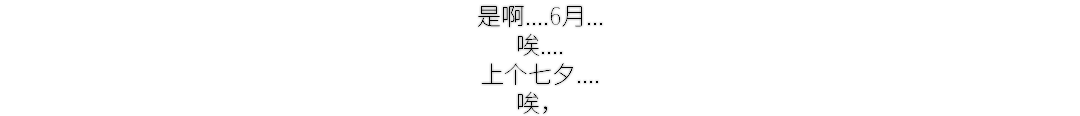
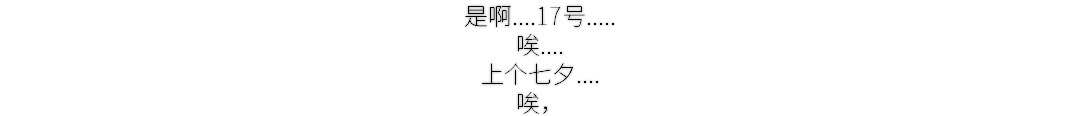
bugfix

Changed region(s): [[0.4278, 0.0259, 0.55, 0.2328]]

diff --git a/css/site_global.css b/css/site_global.css
@@ -1,1 +1,1 @@
-html{min-height:100%;min-width:100%;-ms-text-size-adjust:none;}body,div,dl,dt,dd,ul,ol,li,nav,h1,h2,h3,h4,h5,h6,pre,code,form,fieldset,legend,input,button,textarea,p,blockquote,th,td,a{margin:0px;padding:0px;border-width:0px;border-style:solid;border-color:transparent;-webkit-transform-origin:left top;-ms-transform-origin:left top;-o-transform-origin:left top;transform-origin:left top;background-repeat:no-repeat;}button.submit-btn{-moz-box-sizing:content-box;-webkit-box-sizing:content-box;box-sizing:content-box;}.transition{-webkit-transition-property:background-image,background-position,background-color,border-color,border-radius,color,font-size,font-style,font-weight,letter-spacing,line-height,text-align,box-shadow,text-shadow,opacity;transition-property:background-image,background-position,background-color,border-color,border-radius,color,font-size,font-style,font-weight,letter-spacing,line-height,text-align,box-shadow,text-shadow,opacity;}.transition *{-webkit-transition:inherit;transition:inherit;}table{border-collapse:collapse;border-spacing:0px;}fieldset,img{border:0px;border-style:solid;-webkit-transform-origin:left top;-ms-transform-origin:left top;-o-transform-origin:left top;transform-origin:left top;}address,caption,cite,code,dfn,em,strong,th,var,optgroup{font-style:inherit;font-weight:inherit;}del,ins{text-decoration:none;}li{list-style:none;}caption,th{text-align:left;}h1,h2,h3,h4,h5,h6{font-size:100%;font-weight:inherit;}input,button,textarea,select,optgroup,option{font-family:inherit;font-size:inherit;font-style:inherit;font-weight:inherit;}.form-grp input,.form-grp textarea{-webkit-appearance:none;-webkit-border-radius:0;}body{font-family:Arial, Helvetica Neue, Helvetica, sans-serif;text-align:left;font-size:14px;line-height:17px;word-wrap:break-word;text-rendering:optimizeLegibility;-moz-font-feature-settings:'liga';-ms-font-feature-settings:'liga';-webkit-font-feature-settings:'liga';font-feature-settings:'liga';}a:link{color:#FFFFFF;text-decoration:inherit;}a:visited{color:#FFFFFF;text-decoration:inherit;}a:hover{color:#FFFFFF;text-decoration:inherit;}a:active{color:#FFFFFF;text-decoration:inherit;}a.nontext{color:black;text-decoration:none;font-style:normal;font-weight:normal;}.normal_text{color:#000000;direction:ltr;font-family:Arial, Helvetica Neue, Helvetica, sans-serif;font-size:14px;font-style:normal;font-weight:normal;letter-spacing:0px;line-height:17px;text-align:left;text-decoration:none;text-indent:0px;text-transform:none;vertical-align:0px;padding:0px;}.list0 li:before{position:absolute;right:100%;letter-spacing:0px;text-decoration:none;font-weight:normal;font-style:normal;}.rtl-list li:before{right:auto;left:100%;}.nls-None > li:before,.nls-None .list3 > li:before,.nls-None .list6 > li:before{margin-right:6px;content:'•';}.nls-None .list1 > li:before,.nls-None .list4 > li:before,.nls-None .list7 > li:before{margin-right:6px;content:'○';}.nls-None,.nls-None .list1,.nls-None .list2,.nls-None .list3,.nls-None .list4,.nls-None .list5,.nls-None .list6,.nls-None .list7,.nls-None .list8{padding-left:34px;}.nls-None.rtl-list,.nls-None .list1.rtl-list,.nls-None .list2.rtl-list,.nls-None .list3.rtl-list,.nls-None .list4.rtl-list,.nls-None .list5.rtl-list,.nls-None .list6.rtl-list,.nls-None .list7.rtl-list,.nls-None .list8.rtl-list{padding-left:0px;padding-right:34px;}.nls-None .list2 > li:before,.nls-None .list5 > li:before,.nls-None .list8 > li:before{margin-right:6px;content:'-';}.nls-None.rtl-list > li:before,.nls-None .list1.rtl-list > li:before,.nls-None .list2.rtl-list > li:before,.nls-None .list3.rtl-list > li:before,.nls-None .list4.rtl-list > li:before,.nls-None .list5.rtl-list > li:before,.nls-None .list6.rtl-list > li:before,.nls-None .list7.rtl-list > li:before,.nls-None .list8.rtl-list > li:before{margin-right:0px;margin-left:6px;}.TabbedPanelsTab{white-space:nowrap;}.MenuBar .MenuBarView,.MenuBar .SubMenuView{display:block;list-style:none;}.MenuBar .SubMenu{display:none;position:absolute;}.NoWrap{white-space:nowrap;word-wrap:normal;}.rootelem{margin-left:auto;margin-right:auto;}.colelem{display:inline;float:left;clear:both;}.clearfix:after{content:"\0020";visibility:hidden;display:block;height:0px;clear:both;}*:first-child+html .clearfix{zoom:1;}.clip_frame{overflow:hidden;}.popup_anchor{position:relative;width:0px;height:0px;}.allow_click_through *{pointer-events:auto;}.popup_element{z-index:100000;}.svg{display:block;vertical-align:top;}span.wrap{content:'';clear:left;display:block;}span.actAsInlineDiv{display:inline-block;}.position_content,.excludeFromNormalFlow{float:left;}.preload_images{position:absolute;overflow:hidden;left:-9999px;top:-9999px;height:1px;width:1px;}.preload{height:1px;width:1px;}.animateStates{-webkit-transition:0.3s ease-in-out;-moz-transition:0.3s ease-in-out;-o-transition:0.3s ease-in-out;transition:0.3s ease-in-out;}[data-whatinput="mouse"] *:focus,[data-whatinput="touch"] *:focus,input:focus,textarea:focus{outline:none;}textarea{resize:none;overflow:auto;}.allow_click_through,.fld-prompt{pointer-events:none;}.wrapped-input{position:absolute;top:0px;left:0px;background:transparent;border:none;}.submit-btn{z-index:50000;cursor:pointer;}.anchor_item{width:22px;height:18px;}.MenuBar .SubMenuVisible,.MenuBarVertical .SubMenuVisible,.MenuBar .SubMenu .SubMenuVisible,.popup_element.Active,span.actAsPara,.actAsDiv,a.nonblock.nontext,img.block{display:block;}.widget_invisible,.js .invi,.js .mse_pre_init{visibility:hidden;}.ose_ei{visibility:hidden;z-index:0;}.no_vert_scroll{overflow-y:hidden;}.always_vert_scroll{overflow-y:scroll;}.always_horz_scroll{overflow-x:scroll;}.fullscreen{overflow:hidden;left:0px;top:0px;position:fixed;height:100%;width:100%;-moz-box-sizing:border-box;-webkit-box-sizing:border-box;-ms-box-sizing:border-box;box-sizing:border-box;}.fullwidth{position:absolute;}.borderbox{-moz-box-sizing:border-box;-webkit-box-sizing:border-box;-ms-box-sizing:border-box;box-sizing:border-box;}.scroll_wrapper{position:absolute;overflow:auto;left:0px;right:0px;top:0px;bottom:0px;padding-top:0px;padding-bottom:0px;margin-top:0px;margin-bottom:0px;}.browser_width > *{position:absolute;left:0px;right:0px;}.grpelem,.accordion_wrapper{display:inline;float:left;}.fld-checkbox input[type=checkbox],.fld-radiobutton input[type=radio]{position:absolute;overflow:hidden;clip:rect(0px, 0px, 0px, 0px);height:1px;width:1px;margin:-1px;padding:0px;border:0px;}.fld-checkbox input[type=checkbox] + label,.fld-radiobutton input[type=radio] + label{display:inline-block;background-repeat:no-repeat;cursor:pointer;float:left;width:100%;height:100%;}.pointer_cursor,.fld-recaptcha-mode,.fld-recaptcha-refresh,.fld-recaptcha-help{cursor:pointer;}p,h1,h2,h3,h4,h5,h6,ol,ul,span.actAsPara{max-height:1000000px;}.superscript{vertical-align:super;font-size:66%;line-height:0px;}.subscript{vertical-align:sub;font-size:66%;line-height:0px;}.horizontalSlideShow{-ms-touch-action:pan-y;touch-action:pan-y;}.verticalSlideShow{-ms-touch-action:pan-x;touch-action:pan-x;}.colelem100,.verticalspacer{clear:both;}.list0 li,.MenuBar .MenuItemContainer,.SlideShowContentPanel .fullscreen img,.css_verticalspacer .verticalspacer{position:relative;}.popup_element.Inactive,.js .disn,.js .an_invi,.hidden,.breakpoint{display:none;}#muse_css_mq{position:absolute;display:none;background-color:#FFFFFE;}.fluid_height_spacer{width:0.01px;}.muse_check_css{display:none;position:fixed;}@media screen and (-webkit-min-device-pixel-ratio:0){body{text-rendering:auto;}}
+html{min-height:100%;min-width:100%;-ms-text-size-adjust:none;}body,div,dl,dt,dd,ul,ol,li,nav,h1,h2,h3,h4,h5,h6,pre,code,form,fieldset,legend,input,button,textarea,p,blockquote,th,td,a{margin:0px;padding:0px;border-width:0px;border-style:solid;border-color:transparent;-webkit-transform-origin:left top;-ms-transform-origin:left top;-o-transform-origin:left top;transform-origin:left top;background-repeat:no-repeat;}button.submit-btn{-moz-box-sizing:content-box;-webkit-box-sizing:content-box;box-sizing:content-box;}.transition{-webkit-transition-property:background-image,background-position,background-color,border-color,border-radius,color,font-size,font-style,font-weight,letter-spacing,line-height,text-align,box-shadow,text-shadow,opacity;transition-property:background-image,background-position,background-color,border-color,border-radius,color,font-size,font-style,font-weight,letter-spacing,line-height,text-align,box-shadow,text-shadow,opacity;}.transition *{-webkit-transition:inherit;transition:inherit;}table{border-collapse:collapse;border-spacing:0px;}fieldset,img{border:0px;border-style:solid;-webkit-transform-origin:left top;-ms-transform-origin:left top;-o-transform-origin:left top;transform-origin:left top;}address,caption,cite,code,dfn,em,strong,th,var,optgroup{font-style:inherit;font-weight:inherit;}del,ins{text-decoration:none;}li{list-style:none;}caption,th{text-align:left;}h1,h2,h3,h4,h5,h6{font-size:100%;font-weight:inherit;}input,button,textarea,select,optgroup,option{font-family:inherit;font-size:inherit;font-style:inherit;font-weight:inherit;}.form-grp input,.form-grp textarea{-webkit-appearance:none;-webkit-border-radius:0;}body{font-family:Arial, Helvetica Neue, Helvetica, sans-serif;text-align:left;font-size:14px;line-height:17px;word-wrap:break-word;text-rendering:optimizeLegibility;-moz-font-feature-settings:'liga';-ms-font-feature-settings:'liga';-webkit-font-feature-settings:'liga';font-feature-settings:'liga';}a{color:inherit;text-decoration:inherit;}a:link{color:#FFFFFF;text-decoration:inherit;}a:visited{color:#FFFFFF;text-decoration:inherit;}a:hover{color:#FFFFFF;text-decoration:inherit;}a:active{color:#FFFFFF;text-decoration:inherit;}a.nontext{color:black;text-decoration:none;font-style:normal;font-weight:normal;}.normal_text{color:#000000;direction:ltr;font-family:Arial, Helvetica Neue, Helvetica, sans-serif;font-size:14px;font-style:normal;font-weight:normal;letter-spacing:0px;line-height:17px;text-align:left;text-decoration:none;text-indent:0px;text-transform:none;vertical-align:0px;padding:0px;}.list0 li:before{position:absolute;right:100%;letter-spacing:0px;text-decoration:none;font-weight:normal;font-style:normal;}.rtl-list li:before{right:auto;left:100%;}.nls-None > li:before,.nls-None .list3 > li:before,.nls-None .list6 > li:before{margin-right:6px;content:'•';}.nls-None .list1 > li:before,.nls-None .list4 > li:before,.nls-None .list7 > li:before{margin-right:6px;content:'○';}.nls-None,.nls-None .list1,.nls-None .list2,.nls-None .list3,.nls-None .list4,.nls-None .list5,.nls-None .list6,.nls-None .list7,.nls-None .list8{padding-left:34px;}.nls-None.rtl-list,.nls-None .list1.rtl-list,.nls-None .list2.rtl-list,.nls-None .list3.rtl-list,.nls-None .list4.rtl-list,.nls-None .list5.rtl-list,.nls-None .list6.rtl-list,.nls-None .list7.rtl-list,.nls-None .list8.rtl-list{padding-left:0px;padding-right:34px;}.nls-None .list2 > li:before,.nls-None .list5 > li:before,.nls-None .list8 > li:before{margin-right:6px;content:'-';}.nls-None.rtl-list > li:before,.nls-None .list1.rtl-list > li:before,.nls-None .list2.rtl-list > li:before,.nls-None .list3.rtl-list > li:before,.nls-None .list4.rtl-list > li:before,.nls-None .list5.rtl-list > li:before,.nls-None .list6.rtl-list > li:before,.nls-None .list7.rtl-list > li:before,.nls-None .list8.rtl-list > li:before{margin-right:0px;margin-left:6px;}.TabbedPanelsTab{white-space:nowrap;}.MenuBar .MenuBarView,.MenuBar .SubMenuView{display:block;list-style:none;}.MenuBar .SubMenu{display:none;position:absolute;}.NoWrap{white-space:nowrap;word-wrap:normal;}.rootelem{margin-left:auto;margin-right:auto;}.colelem{display:inline;float:left;clear:both;}.clearfix:after{content:"\0020";visibility:hidden;display:block;height:0px;clear:both;}*:first-child+html .clearfix{zoom:1;}.clip_frame{overflow:hidden;}.popup_anchor{position:relative;width:0px;height:0px;}.allow_click_through *{pointer-events:auto;}.popup_element{z-index:100000;}.svg{display:block;vertical-align:top;}span.wrap{content:'';clear:left;display:block;}span.actAsInlineDiv{display:inline-block;}.position_content,.excludeFromNormalFlow{float:left;}.preload_images{position:absolute;overflow:hidden;left:-9999px;top:-9999px;height:1px;width:1px;}.preload{height:1px;width:1px;}.animateStates{-webkit-transition:0.3s ease-in-out;-moz-transition:0.3s ease-in-out;-o-transition:0.3s ease-in-out;transition:0.3s ease-in-out;}[data-whatinput="mouse"] *:focus,[data-whatinput="touch"] *:focus,input:focus,textarea:focus{outline:none;}textarea{resize:none;overflow:auto;}.allow_click_through,.fld-prompt{pointer-events:none;}.wrapped-input{position:absolute;top:0px;left:0px;background:transparent;border:none;}.submit-btn{z-index:50000;cursor:pointer;}.anchor_item{width:22px;height:18px;}.MenuBar .SubMenuVisible,.MenuBarVertical .SubMenuVisible,.MenuBar .SubMenu .SubMenuVisible,.popup_element.Active,span.actAsPara,.actAsDiv,a.nonblock.nontext,img.block{display:block;}.widget_invisible,.js .invi,.js .mse_pre_init{visibility:hidden;}.ose_ei{visibility:hidden;z-index:0;}.no_vert_scroll{overflow-y:hidden;}.always_vert_scroll{overflow-y:scroll;}.always_horz_scroll{overflow-x:scroll;}.fullscreen{overflow:hidden;left:0px;top:0px;position:fixed;height:100%;width:100%;-moz-box-sizing:border-box;-webkit-box-sizing:border-box;-ms-box-sizing:border-box;box-sizing:border-box;}.fullwidth{position:absolute;}.borderbox{-moz-box-sizing:border-box;-webkit-box-sizing:border-box;-ms-box-sizing:border-box;box-sizing:border-box;}.scroll_wrapper{position:absolute;overflow:auto;left:0px;right:0px;top:0px;bottom:0px;padding-top:0px;padding-bottom:0px;margin-top:0px;margin-bottom:0px;}.browser_width > *{position:absolute;left:0px;right:0px;}.grpelem,.accordion_wrapper{display:inline;float:left;}.fld-checkbox input[type=checkbox],.fld-radiobutton input[type=radio]{position:absolute;overflow:hidden;clip:rect(0px, 0px, 0px, 0px);height:1px;width:1px;margin:-1px;padding:0px;border:0px;}.fld-checkbox input[type=checkbox] + label,.fld-radiobutton input[type=radio] + label{display:inline-block;background-repeat:no-repeat;cursor:pointer;float:left;width:100%;height:100%;}.pointer_cursor,.fld-recaptcha-mode,.fld-recaptcha-refresh,.fld-recaptcha-help{cursor:pointer;}p,h1,h2,h3,h4,h5,h6,ol,ul,span.actAsPara{max-height:1000000px;}.superscript{vertical-align:super;font-size:66%;line-height:0px;}.subscript{vertical-align:sub;font-size:66%;line-height:0px;}.horizontalSlideShow{-ms-touch-action:pan-y;touch-action:pan-y;}.verticalSlideShow{-ms-touch-action:pan-x;touch-action:pan-x;}.colelem100,.verticalspacer{clear:both;}.list0 li,.MenuBar .MenuItemContainer,.SlideShowContentPanel .fullscreen img,.css_verticalspacer .verticalspacer{position:relative;}.popup_element.Inactive,.js .disn,.js .an_invi,.hidden,.breakpoint{display:none;}#muse_css_mq{position:absolute;display:none;background-color:#FFFFFE;}.fluid_height_spacer{width:0.01px;}.muse_check_css{display:none;position:fixed;}@media screen and (-webkit-min-device-pixel-ratio:0){body{text-rendering:auto;}}

diff --git a/17.html b/17.html
@@ -16,14 +16,14 @@ if(typeof Muse == "undefined") window.Muse = {}; window.Muse.assets = {"required
   
   <title>17</title>
   <!-- CSS -->
-  <link rel="stylesheet" type="text/css" href="css/site_global.css?crc=3842788024"/>
+  <link rel="stylesheet" type="text/css" href="css/site_global.css?crc=3808696240"/>
   <link rel="stylesheet" type="text/css" href="css/master_____.css?crc=4288203175"/>
   <link rel="stylesheet" type="text/css" href="css/17.css?crc=468164555" id="pagesheet"/>
    </head>
  <body class="always_horz_scroll always_vert_scroll">
 
   <div class="clearfix borderbox" id="page"><!-- column -->
-   <img class="colelem" id="u995-10" alt="是啊....6月... 唉.... 上个七夕.... 唉，" src="images/u995-10.png?crc=3959168454" data-image-width="1080"/><!-- rasterized frame -->
+   <img class="colelem" id="u995-10" alt="是啊....17号..... 唉.... 上个七夕.... 唉，" src="images/u995-10.png?crc=526001299" data-image-width="1080"/><!-- rasterized frame -->
    <img class="colelem" id="u994-4" alt="这个七夕，和我过吧" src="images/u994-4.png?crc=512666608" data-image-width="1080"/><!-- rasterized frame -->
    <img class="colelem" id="u1006-4" alt="可以 / 不可以" src="images/u1006-4.png?crc=3764198708" data-image-width="1080"/><!-- rasterized frame -->
    <div class="browser_width colelem" id="u766-bw">
